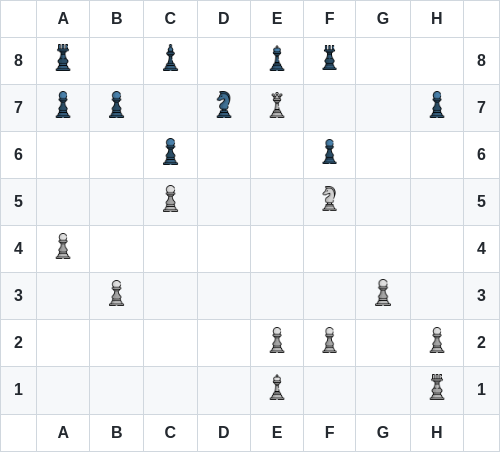
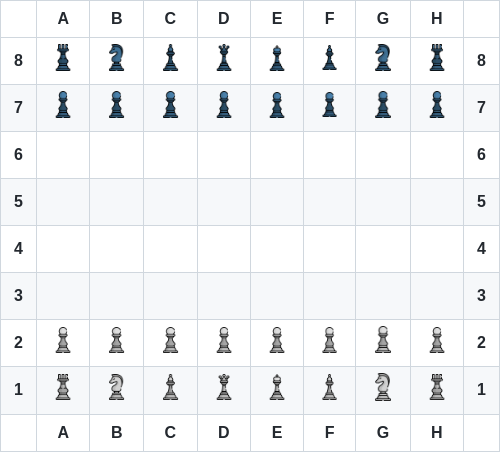
Generated the chess board preview img ♟

diff --git a/file.md b/file.md
@@ -1,12 +1,12 @@
 
 |   | A | B | C | D | E | F | G | H |   |
 |---|:-:|:-:|:-:|:-:|:-:|:-:|:-:|:-:|:-:|
-| **8** | <img src="https://raw.githubusercontent.com/milaabl/readme-chess/master/img/black/rook.png" width=50px> | <img src="https://raw.githubusercontent.com/milaabl/readme-chess/master/img/blank.png" width=50px> | <img src="https://raw.githubusercontent.com/milaabl/readme-chess/master/img/black/bishop.png" width=50px> | <img src="https://raw.githubusercontent.com/milaabl/readme-chess/master/img/blank.png" width=50px> | <img src="https://raw.githubusercontent.com/milaabl/readme-chess/master/img/black/king.png" width=50px> | <img src="https://raw.githubusercontent.com/milaabl/readme-chess/master/img/black/rook.png" width=50px> | <img src="https://raw.githubusercontent.com/milaabl/readme-chess/master/img/blank.png" width=50px> | <img src="https://raw.githubusercontent.com/milaabl/readme-chess/master/img/blank.png" width=50px> | **8** |
-| **7** | <img src="https://raw.githubusercontent.com/milaabl/readme-chess/master/img/black/pawn.png" width=50px> | <img src="https://raw.githubusercontent.com/milaabl/readme-chess/master/img/black/pawn.png" width=50px> | <img src="https://raw.githubusercontent.com/milaabl/readme-chess/master/img/blank.png" width=50px> | <img src="https://raw.githubusercontent.com/milaabl/readme-chess/master/img/black/knight.png" width=50px> | <img src="https://raw.githubusercontent.com/milaabl/readme-chess/master/img/white/queen.png" width=50px> | <img src="https://raw.githubusercontent.com/milaabl/readme-chess/master/img/blank.png" width=50px> | <img src="https://raw.githubusercontent.com/milaabl/readme-chess/master/img/blank.png" width=50px> | <img src="https://raw.githubusercontent.com/milaabl/readme-chess/master/img/black/pawn.png" width=50px> | **7** |
-| **6** | <img src="https://raw.githubusercontent.com/milaabl/readme-chess/master/img/blank.png" width=50px> | <img src="https://raw.githubusercontent.com/milaabl/readme-chess/master/img/blank.png" width=50px> | <img src="https://raw.githubusercontent.com/milaabl/readme-chess/master/img/black/pawn.png" width=50px> | <img src="https://raw.githubusercontent.com/milaabl/readme-chess/master/img/blank.png" width=50px> | <img src="https://raw.githubusercontent.com/milaabl/readme-chess/master/img/blank.png" width=50px> | <img src="https://raw.githubusercontent.com/milaabl/readme-chess/master/img/black/pawn.png" width=50px> | <img src="https://raw.githubusercontent.com/milaabl/readme-chess/master/img/blank.png" width=50px> | <img src="https://raw.githubusercontent.com/milaabl/readme-chess/master/img/blank.png" width=50px> | **6** |
-| **5** | <img src="https://raw.githubusercontent.com/milaabl/readme-chess/master/img/blank.png" width=50px> | <img src="https://raw.githubusercontent.com/milaabl/readme-chess/master/img/blank.png" width=50px> | <img src="https://raw.githubusercontent.com/milaabl/readme-chess/master/img/white/pawn.png" width=50px> | <img src="https://raw.githubusercontent.com/milaabl/readme-chess/master/img/blank.png" width=50px> | <img src="https://raw.githubusercontent.com/milaabl/readme-chess/master/img/blank.png" width=50px> | <img src="https://raw.githubusercontent.com/milaabl/readme-chess/master/img/white/knight.png" width=50px> | <img src="https://raw.githubusercontent.com/milaabl/readme-chess/master/img/blank.png" width=50px> | <img src="https://raw.githubusercontent.com/milaabl/readme-chess/master/img/blank.png" width=50px> | **5** |
-| **4** | <img src="https://raw.githubusercontent.com/milaabl/readme-chess/master/img/white/pawn.png" width=50px> | <img src="https://raw.githubusercontent.com/milaabl/readme-chess/master/img/blank.png" width=50px> | <img src="https://raw.githubusercontent.com/milaabl/readme-chess/master/img/blank.png" width=50px> | <img src="https://raw.githubusercontent.com/milaabl/readme-chess/master/img/blank.png" width=50px> | <img src="https://raw.githubusercontent.com/milaabl/readme-chess/master/img/blank.png" width=50px> | <img src="https://raw.githubusercontent.com/milaabl/readme-chess/master/img/blank.png" width=50px> | <img src="https://raw.githubusercontent.com/milaabl/readme-chess/master/img/blank.png" width=50px> | <img src="https://raw.githubusercontent.com/milaabl/readme-chess/master/img/blank.png" width=50px> | **4** |
-| **3** | <img src="https://raw.githubusercontent.com/milaabl/readme-chess/master/img/blank.png" width=50px> | <img src="https://raw.githubusercontent.com/milaabl/readme-chess/master/img/white/pawn.png" width=50px> | <img src="https://raw.githubusercontent.com/milaabl/readme-chess/master/img/blank.png" width=50px> | <img src="https://raw.githubusercontent.com/milaabl/readme-chess/master/img/blank.png" width=50px> | <img src="https://raw.githubusercontent.com/milaabl/readme-chess/master/img/blank.png" width=50px> | <img src="https://raw.githubusercontent.com/milaabl/readme-chess/master/img/blank.png" width=50px> | <img src="https://raw.githubusercontent.com/milaabl/readme-chess/master/img/white/pawn.png" width=50px> | <img src="https://raw.githubusercontent.com/milaabl/readme-chess/master/img/blank.png" width=50px> | **3** |
-| **2** | <img src="https://raw.githubusercontent.com/milaabl/readme-chess/master/img/blank.png" width=50px> | <img src="https://raw.githubusercontent.com/milaabl/readme-chess/master/img/blank.png" width=50px> | <img src="https://raw.githubusercontent.com/milaabl/readme-chess/master/img/blank.png" width=50px> | <img src="https://raw.githubusercontent.com/milaabl/readme-chess/master/img/blank.png" width=50px> | <img src="https://raw.githubusercontent.com/milaabl/readme-chess/master/img/white/pawn.png" width=50px> | <img src="https://raw.githubusercontent.com/milaabl/readme-chess/master/img/white/pawn.png" width=50px> | <img src="https://raw.githubusercontent.com/milaabl/readme-chess/master/img/blank.png" width=50px> | <img src="https://raw.githubusercontent.com/milaabl/readme-chess/master/img/white/pawn.png" width=50px> | **2** |
-| **1** | <img src="https://raw.githubusercontent.com/milaabl/readme-chess/master/img/blank.png" width=50px> | <img src="https://raw.githubusercontent.com/milaabl/readme-chess/master/img/blank.png" width=50px> | <img src="https://raw.githubusercontent.com/milaabl/readme-chess/master/img/blank.png" width=50px> | <img src="https://raw.githubusercontent.com/milaabl/readme-chess/master/img/blank.png" width=50px> | <img src="https://raw.githubusercontent.com/milaabl/readme-chess/master/img/white/king.png" width=50px> | <img src="https://raw.githubusercontent.com/milaabl/readme-chess/master/img/blank.png" width=50px> | <img src="https://raw.githubusercontent.com/milaabl/readme-chess/master/img/blank.png" width=50px> | <img src="https://raw.githubusercontent.com/milaabl/readme-chess/master/img/white/rook.png" width=50px> | **1** |
+| **8** | <img src="https://raw.githubusercontent.com/milaabl/readme-chess/master/img/black/rook.png" width=50px> | <img src="https://raw.githubusercontent.com/milaabl/readme-chess/master/img/black/knight.png" width=50px> | <img src="https://raw.githubusercontent.com/milaabl/readme-chess/master/img/black/bishop.png" width=50px> | <img src="https://raw.githubusercontent.com/milaabl/readme-chess/master/img/black/queen.png" width=50px> | <img src="https://raw.githubusercontent.com/milaabl/readme-chess/master/img/black/king.png" width=50px> | <img src="https://raw.githubusercontent.com/milaabl/readme-chess/master/img/black/bishop.png" width=50px> | <img src="https://raw.githubusercontent.com/milaabl/readme-chess/master/img/black/knight.png" width=50px> | <img src="https://raw.githubusercontent.com/milaabl/readme-chess/master/img/black/rook.png" width=50px> | **8** |
+| **7** | <img src="https://raw.githubusercontent.com/milaabl/readme-chess/master/img/black/pawn.png" width=50px> | <img src="https://raw.githubusercontent.com/milaabl/readme-chess/master/img/black/pawn.png" width=50px> | <img src="https://raw.githubusercontent.com/milaabl/readme-chess/master/img/black/pawn.png" width=50px> | <img src="https://raw.githubusercontent.com/milaabl/readme-chess/master/img/black/pawn.png" width=50px> | <img src="https://raw.githubusercontent.com/milaabl/readme-chess/master/img/black/pawn.png" width=50px> | <img src="https://raw.githubusercontent.com/milaabl/readme-chess/master/img/black/pawn.png" width=50px> | <img src="https://raw.githubusercontent.com/milaabl/readme-chess/master/img/black/pawn.png" width=50px> | <img src="https://raw.githubusercontent.com/milaabl/readme-chess/master/img/black/pawn.png" width=50px> | **7** |
+| **6** | <img src="https://raw.githubusercontent.com/milaabl/readme-chess/master/img/blank.png" width=50px> | <img src="https://raw.githubusercontent.com/milaabl/readme-chess/master/img/blank.png" width=50px> | <img src="https://raw.githubusercontent.com/milaabl/readme-chess/master/img/blank.png" width=50px> | <img src="https://raw.githubusercontent.com/milaabl/readme-chess/master/img/blank.png" width=50px> | <img src="https://raw.githubusercontent.com/milaabl/readme-chess/master/img/blank.png" width=50px> | <img src="https://raw.githubusercontent.com/milaabl/readme-chess/master/img/blank.png" width=50px> | <img src="https://raw.githubusercontent.com/milaabl/readme-chess/master/img/blank.png" width=50px> | <img src="https://raw.githubusercontent.com/milaabl/readme-chess/master/img/blank.png" width=50px> | **6** |
+| **5** | <img src="https://raw.githubusercontent.com/milaabl/readme-chess/master/img/blank.png" width=50px> | <img src="https://raw.githubusercontent.com/milaabl/readme-chess/master/img/blank.png" width=50px> | <img src="https://raw.githubusercontent.com/milaabl/readme-chess/master/img/blank.png" width=50px> | <img src="https://raw.githubusercontent.com/milaabl/readme-chess/master/img/blank.png" width=50px> | <img src="https://raw.githubusercontent.com/milaabl/readme-chess/master/img/blank.png" width=50px> | <img src="https://raw.githubusercontent.com/milaabl/readme-chess/master/img/blank.png" width=50px> | <img src="https://raw.githubusercontent.com/milaabl/readme-chess/master/img/blank.png" width=50px> | <img src="https://raw.githubusercontent.com/milaabl/readme-chess/master/img/blank.png" width=50px> | **5** |
+| **4** | <img src="https://raw.githubusercontent.com/milaabl/readme-chess/master/img/blank.png" width=50px> | <img src="https://raw.githubusercontent.com/milaabl/readme-chess/master/img/blank.png" width=50px> | <img src="https://raw.githubusercontent.com/milaabl/readme-chess/master/img/blank.png" width=50px> | <img src="https://raw.githubusercontent.com/milaabl/readme-chess/master/img/blank.png" width=50px> | <img src="https://raw.githubusercontent.com/milaabl/readme-chess/master/img/blank.png" width=50px> | <img src="https://raw.githubusercontent.com/milaabl/readme-chess/master/img/blank.png" width=50px> | <img src="https://raw.githubusercontent.com/milaabl/readme-chess/master/img/blank.png" width=50px> | <img src="https://raw.githubusercontent.com/milaabl/readme-chess/master/img/blank.png" width=50px> | **4** |
+| **3** | <img src="https://raw.githubusercontent.com/milaabl/readme-chess/master/img/blank.png" width=50px> | <img src="https://raw.githubusercontent.com/milaabl/readme-chess/master/img/blank.png" width=50px> | <img src="https://raw.githubusercontent.com/milaabl/readme-chess/master/img/blank.png" width=50px> | <img src="https://raw.githubusercontent.com/milaabl/readme-chess/master/img/blank.png" width=50px> | <img src="https://raw.githubusercontent.com/milaabl/readme-chess/master/img/blank.png" width=50px> | <img src="https://raw.githubusercontent.com/milaabl/readme-chess/master/img/blank.png" width=50px> | <img src="https://raw.githubusercontent.com/milaabl/readme-chess/master/img/blank.png" width=50px> | <img src="https://raw.githubusercontent.com/milaabl/readme-chess/master/img/blank.png" width=50px> | **3** |
+| **2** | <img src="https://raw.githubusercontent.com/milaabl/readme-chess/master/img/white/pawn.png" width=50px> | <img src="https://raw.githubusercontent.com/milaabl/readme-chess/master/img/white/pawn.png" width=50px> | <img src="https://raw.githubusercontent.com/milaabl/readme-chess/master/img/white/pawn.png" width=50px> | <img src="https://raw.githubusercontent.com/milaabl/readme-chess/master/img/white/pawn.png" width=50px> | <img src="https://raw.githubusercontent.com/milaabl/readme-chess/master/img/white/pawn.png" width=50px> | <img src="https://raw.githubusercontent.com/milaabl/readme-chess/master/img/white/pawn.png" width=50px> | <img src="https://raw.githubusercontent.com/milaabl/readme-chess/master/img/white/pawn.png" width=50px> | <img src="https://raw.githubusercontent.com/milaabl/readme-chess/master/img/white/pawn.png" width=50px> | **2** |
+| **1** | <img src="https://raw.githubusercontent.com/milaabl/readme-chess/master/img/white/rook.png" width=50px> | <img src="https://raw.githubusercontent.com/milaabl/readme-chess/master/img/white/knight.png" width=50px> | <img src="https://raw.githubusercontent.com/milaabl/readme-chess/master/img/white/bishop.png" width=50px> | <img src="https://raw.githubusercontent.com/milaabl/readme-chess/master/img/white/queen.png" width=50px> | <img src="https://raw.githubusercontent.com/milaabl/readme-chess/master/img/white/king.png" width=50px> | <img src="https://raw.githubusercontent.com/milaabl/readme-chess/master/img/white/bishop.png" width=50px> | <img src="https://raw.githubusercontent.com/milaabl/readme-chess/master/img/white/knight.png" width=50px> | <img src="https://raw.githubusercontent.com/milaabl/readme-chess/master/img/white/rook.png" width=50px> | **1** |
 |   | **A** | **B** | **C** | **D** | **E** | **F** | **G** | **H** |   |
